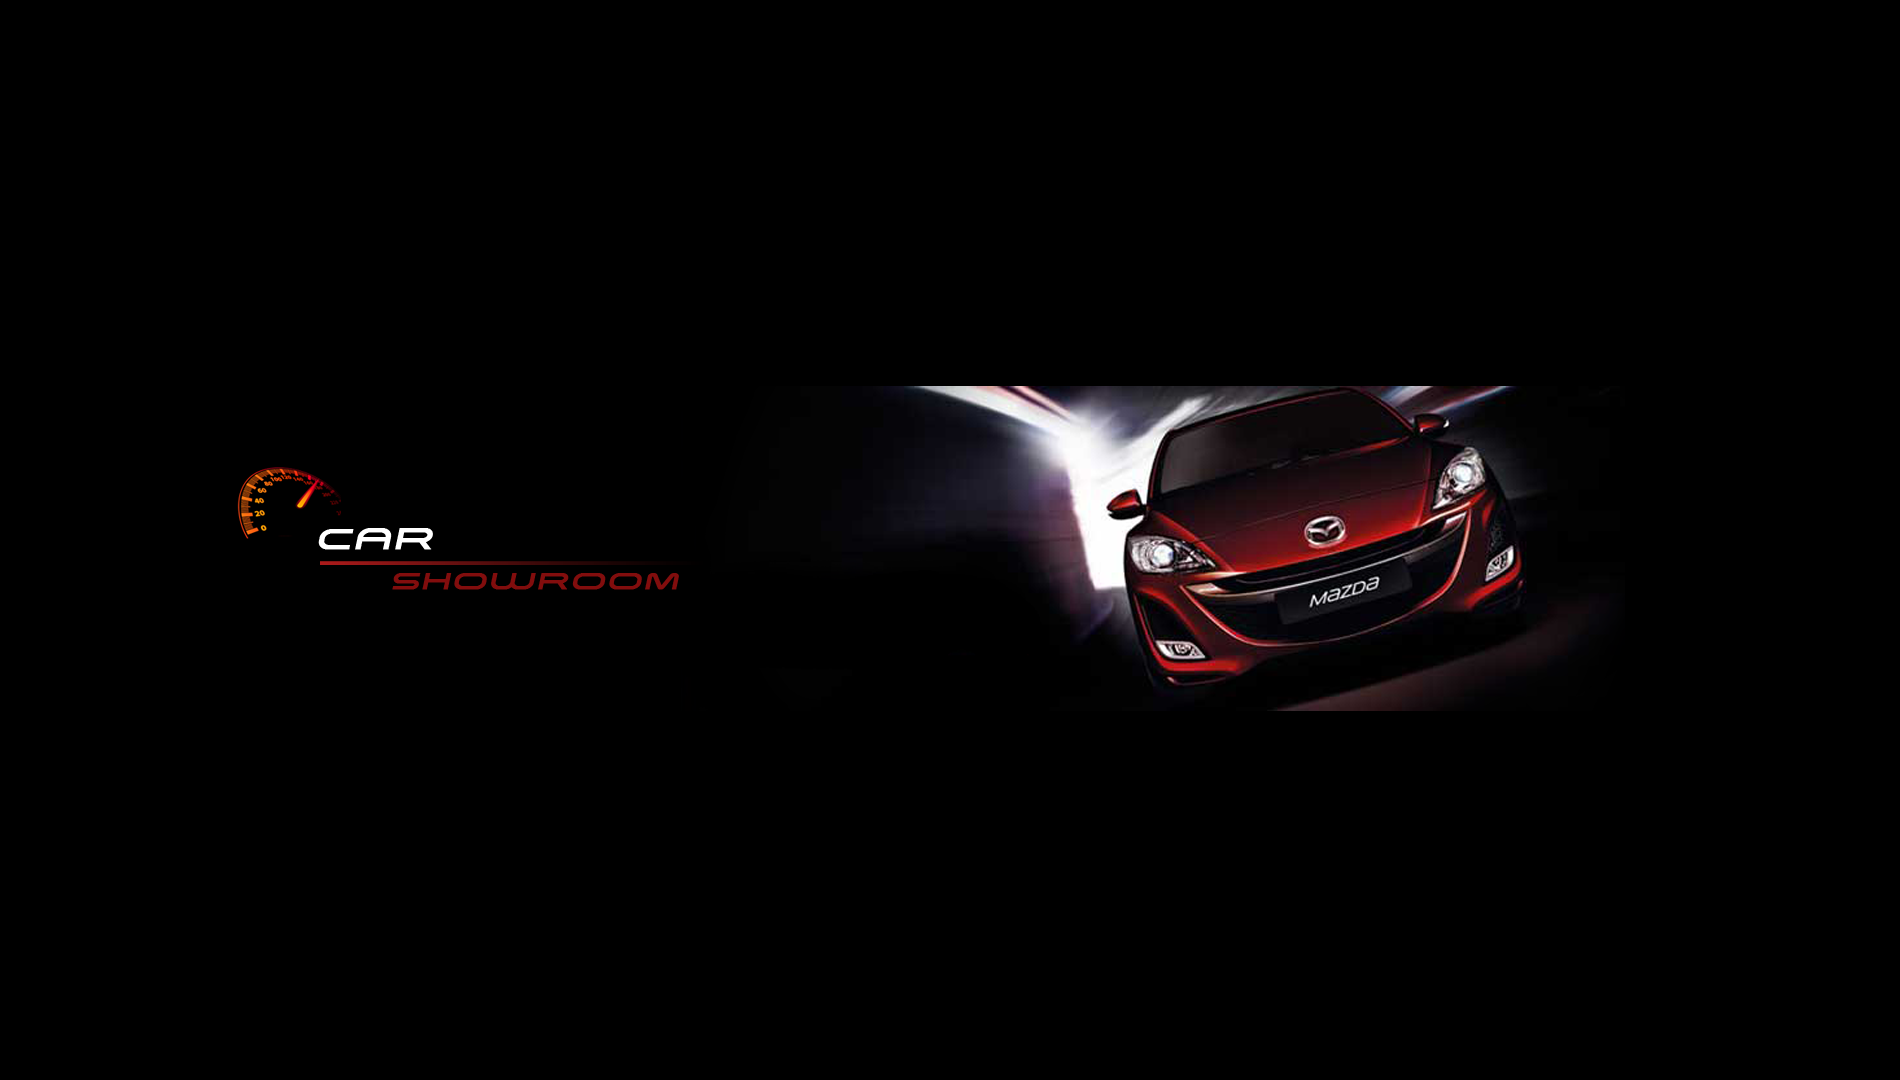
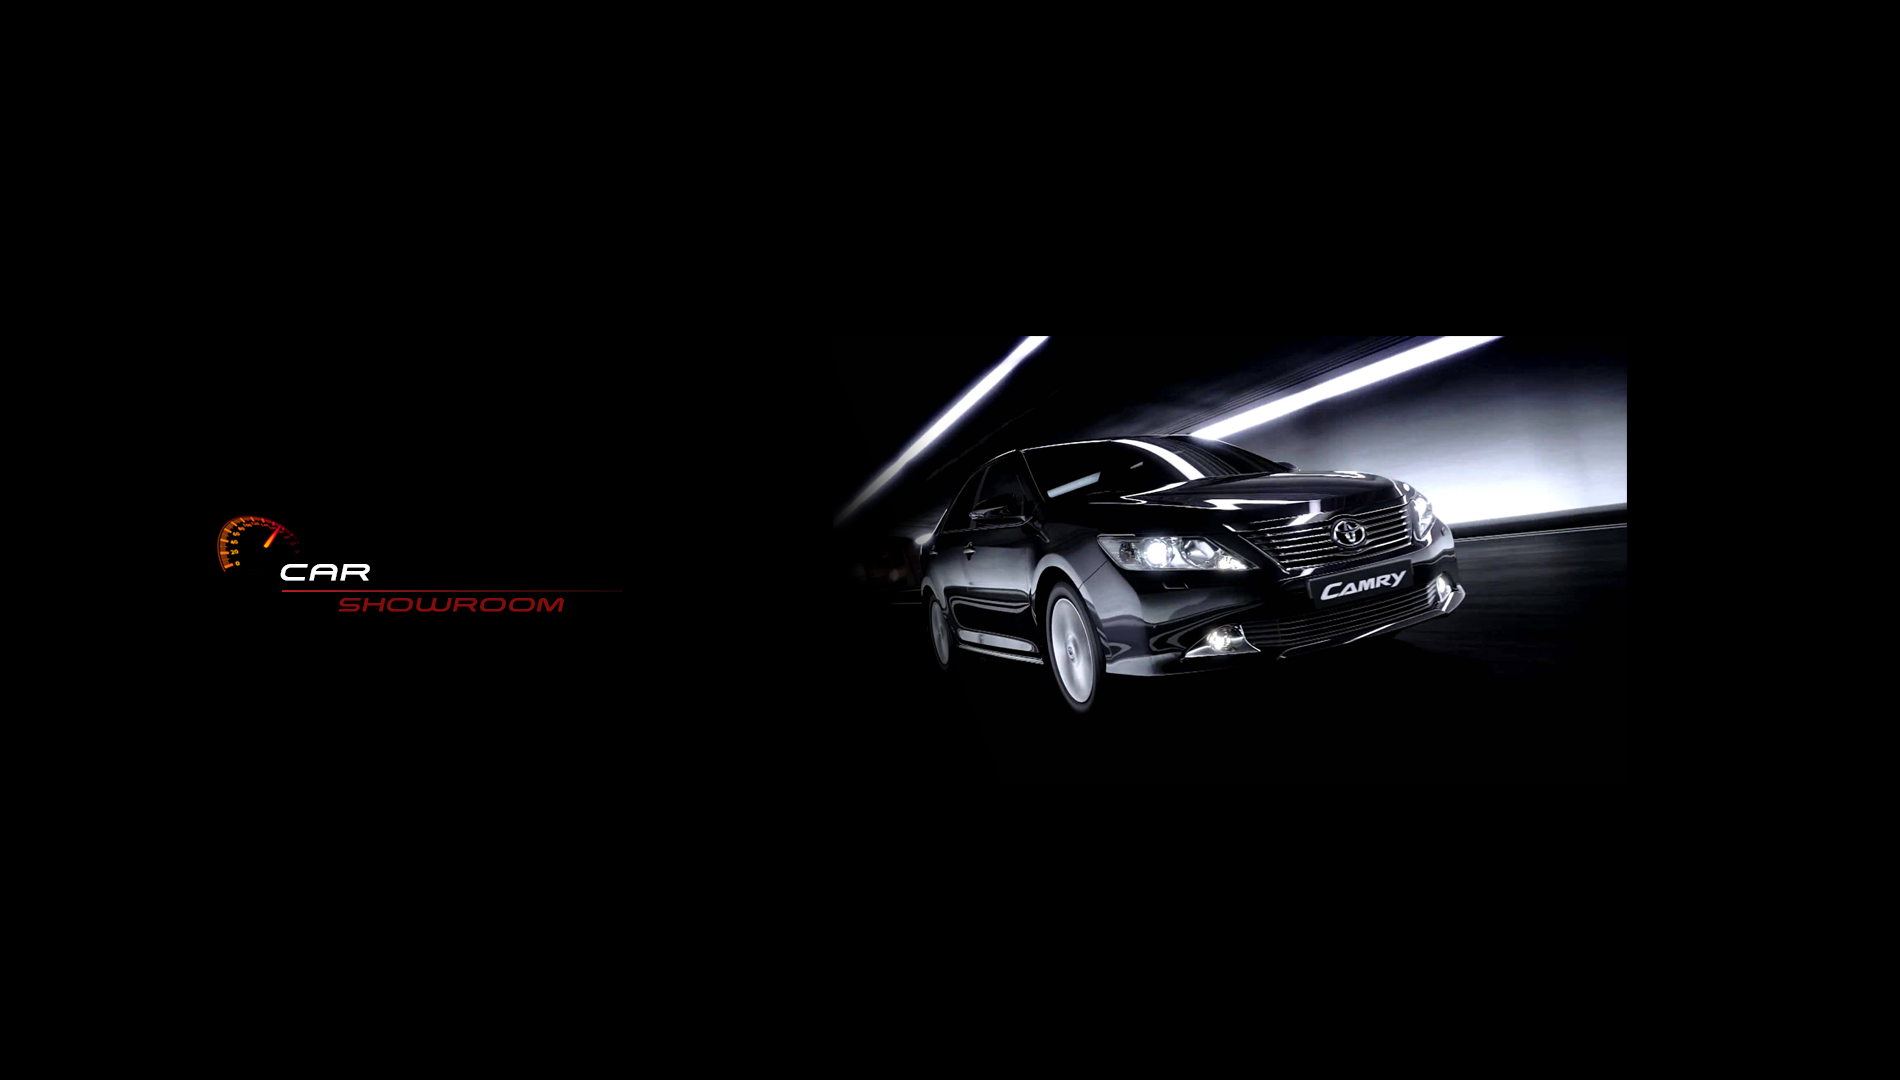
กวาง - 06/04/2015     - แก้ไขภาพ header     - ใส่ข้อความ ยี่ห้อ,รุ่น,ปิผลิต

Changed region(s): [[0.4347, 0.3056, 0.8695, 0.6722], [0.0932, 0.4278, 0.3726, 0.5806], [0.7763, 0.5806, 0.8074, 0.6111]]

diff --git a/carCompare.php b/carCompare.php
@@ -98,71 +98,61 @@ if (isset($_GET['year'])) {
                                                 </div>
                                             <?php } ?>
                                             <form class="form-horizontal" role="form" action="carCompare.php" method="get">
-                                                <table class="table table-no-border">
-                                                    <tbody>
-                                                        <tr>
-                                                            <td>
-                                                                <div align="right">
-                                                                    <select class="form-control-combobox" id="brand" name="brandid">
-                                                                        <option value="">-เลือก-</option>
-                                                                        <?php
-                                                                        $arrBrand = $objBrand->getBrandAll();
-                                                                        foreach ($arrBrand as $row) {
-                                                                            ?>
-                                                                            <option value="<?php echo $row->id; ?>"
-                                                                                    <?php echo ($row->id == $brand_id) ? 'selected' : '' ?>>
-                                                                                <?php echo $row->name; ?></option>
-                                                                            <?php
-                                                                        }
-                                                                        ?>
-                                                                    </select>
-                                                                </div>
-                                                            </td>
-
-                                                            <td>&nbsp;</td>
-                                                        </tr>
-                                                        <tr>
-                                                            <td>
-                                                                <div align="right">
-                                                                    <select class="form-control-combobox" name="modelid" id="model">
-                                                                        <option value="">-เลือก-</option>
-                                                                        <?php
-                                                                        $arrModel = $objModel->getModelAll();
-                                                                        foreach ($arrModel as $row) {
-                                                                            ?>
-                                                                            <option value="<?php echo $row->model_id; ?>"
-                                                                                    <?php echo ($row->model_id == $model_id) ? 'selected' : ''; ?>>
-                                                                                <?php echo $row->model_name; ?></option>
-                                                                            <?php
-                                                                        }
-                                                                        ?>
-                                                                    </select>
-                                                                </div>
-                                                            </td>
-                                                            <td class="col-md-3 col-md-offset-2"><button type="submit" class="btn btn-primary ">ค้นหา</button></td>
-                                                        </tr>
-                                                        <tr>
-                                                            <td>
-                                                                <div align="right">
-                                                                    <select class="form-control-combobox" name="year" id="model">
-                                                                        <option value="">-เลือก-</option>
-                                                                        <?php
-                                                                        $arrYear = $objCar->getCarYearAll();
-                                                                        foreach ($arrYear as $row) {
-                                                                            ?>
-                                                                            <option value="<?php echo $row->car_year; ?>" 
-                                                                                    <?php echo ($row->car_year == $year) ? 'selected' : ''; ?>>
-                                                                                <?php echo $row->car_year; ?></option>
-                                                                            <?php
-                                                                        }
-                                                                        ?>
-                                                                    </select>
-                                                                </div>
-                                                            </td>
-                                                            <td>&nbsp;</td>
-                                                        </tr>
-                                                    </tbody>
-                                                </table>
+                                                <div class="row">
+                                                    <label class="col-md-2 col-sm-3 col-xs-3 control-label">ยี่ห้อ</label> 
+                                                    <div class="col-md-7 col-sm-7 col-xs-7">
+                                                        <select class="form-control" id="brand" name="brandid">
+                                                            <option value="">-เลือก-</option>
+                                                            <?php
+                                                            $arrBrand = $objBrand->getBrandAll();
+                                                            foreach ($arrBrand as $row) {
+                                                                ?>
+                                                                <option value="<?php echo $row->id; ?>"
+                                                                        <?php echo ($row->id == $brand_id) ? 'selected' : '' ?>>
+                                                                    <?php echo $row->name; ?></option>
+                                                                <?php
+                                                            }
+                                                            ?>
+                                                        </select>
+                                                    </div>
+                                                </div>
+                                                <div class="row" style="margin-top:5px;">
+                                                    <label class="col-md-2 col-sm-3 col-xs-3 control-label">รุ่น</label> 
+                                                    <div class="col-md-7 col-sm-7 col-xs-7">
+                                                        <select class="form-control" name="modelid" id="model">
+                                                            <option value="">-เลือก-</option>                                                            
+                                                            <?php
+                                                            $arrModel = $objModel->getModelByBrand($brand_id);
+                                                            foreach ($arrModel as $row) {
+                                                            ?>
+                                                            <option
+                                                                value="<?php echo $row->model_id; ?>"
+                                                                <?php echo ($row->model_id == $model_id) ? 'selected' : ''; ?>><?php echo $row->model_name; ?></option>
+                                                            <?php } ?>
+                                                        </select>
+                                                    </div>
+                                                    <div class="col-md-3 col-sm-1 col-xs-2">
+                                                        <button type="submit" class="btn btn-primary ">ค้นหา</button>
+                                                    </div>
+                                                </div>
+                                                <div class="row" style="margin-top:5px;">
+                                                    <label class="col-md-2 col-sm-3 col-xs-3 control-label">ปีผลิต</label>
+                                                    <div class="col-md-7 col-sm-7 col-xs-7">
+                                                        <select class="form-control" name="year" id="model">
+                                                            <option value="">-เลือก-</option>
+                                                            <?php
+                                                            $arrYear = $objCar->getCarYearAll();
+                                                            foreach ($arrYear as $row) {
+                                                                ?>
+                                                                <option value="<?php echo $row->car_year; ?>" 
+                                                                        <?php echo ($row->car_year == $year) ? 'selected' : ''; ?>>
+                                                                    <?php echo $row->car_year; ?></option>
+                                                                <?php
+                                                            }
+                                                            ?>
+                                                        </select>
+                                                    </div>
+                                                </div>
                                             </form>									
                                             <hr/>
                                             <div class="row clearfix">

diff --git a/index.php b/index.php
@@ -44,11 +44,12 @@ if (isset($_GET['year'])) {
             <div class="row clearfix">
                 <div class="col-md-5 col-sm-6 col-xs-10 col-md-offset-3 col-sm-offset-3 col-xs-offset-1" >
                     <div class="row clearfix panel panel-default ">
-                        <div class="col-md-10 col-sm-10 col-xs-12 col-md-offset-1">
+                        <div class="col-md-11 col-sm-11 col-xs-12 col-md-offset-1">
                             <div class="row clearfix"><p></div>
                             <form class="form-horizontal" role="form" action="index.php" method="get">
                                 <div class="row">
-                                    <div class="col-md-8 col-sm-10 col-xs-8">
+                                    <label class="col-md-2 col-sm-3 col-xs-3 control-label">ยี่ห้อ</label> 
+                                    <div class="col-md-7 col-sm-7 col-xs-7">
                                         <select class="form-control" id="brand" name="brandid">
                                             <option value="">-เลือก-</option>
                                             <?php
@@ -65,25 +66,29 @@ if (isset($_GET['year'])) {
                                     </div>
                                 </div>
                                 <div class="row" style="margin-top:5px;">
-                                    <div class="col-md-8 col-sm-10 col-xs-8">
+                                    <label class="col-md-2 col-sm-3 col-xs-3 control-label">รุ่น</label> 
+                                    <div class="col-md-7 col-sm-7 col-xs-7">
                                         <select class="form-control" name="modelid" id="model">
-                                            <option value="">-เลือก-</option>                                                            
+                                            <option value="">-เลือก-</option>
                                             <?php
-                                            $arrModel = $objModel->getModelByBrand($brand_id);
+                                            $arrModel = $objModel->getModelAll();
                                             foreach ($arrModel as $row) {
+                                                ?>
+                                                <option value="<?php echo $row->model_id; ?>"
+                                                        <?php echo ($row->model_id == $model_id) ? 'selected' : ''; ?>>
+                                                    <?php echo $row->model_name; ?></option>
+                                                <?php
+                                            }
                                             ?>
-                                            <option
-                                                value="<?php echo $row->model_id; ?>"
-                                                <?php echo ($row->model_id == $model_id) ? 'selected' : ''; ?>><?php echo $row->model_name; ?></option>
-                                            <?php } ?>
                                         </select>
                                     </div>
-                                    <div class="col-md-4 col-sm-2 col-xs-3">
+                                    <div class="col-md-3 col-sm-1 col-xs-2">
                                         <button type="submit" class="btn btn-primary ">ค้นหา</button>
                                     </div>
                                 </div>
                                 <div class="row" style="margin-top:5px;">
-                                    <div class="col-md-8 col-sm-10 col-xs-8">
+                                    <label class="col-md-2 col-sm-3 col-xs-3 control-label">ปีผลิต</label>
+                                    <div class="col-md-7 col-sm-7 col-xs-7">
                                         <select class="form-control" name="year" id="model">
                                             <option value="">-เลือก-</option>
                                             <?php

diff --git a/header.php b/header.php
@@ -24,7 +24,7 @@ include_once 'src/class/MemberSystem.php';
                     <a href="http://goo.gl/forms/fkiUr6FUhP" target="_blank">* แบบสอบถาม</a>
                 </li>
                 <li>
-                    <a href="carCompare.php">เปรียบเทียบรถยนต์</a>
+                    <a href="carCompare.php">เลือกเปรียบเทียบรถยนต์</a>
                 </li>
                 <li>
                     <a href="ManageCarProfile.php">จัดการรถยนต์</a>
